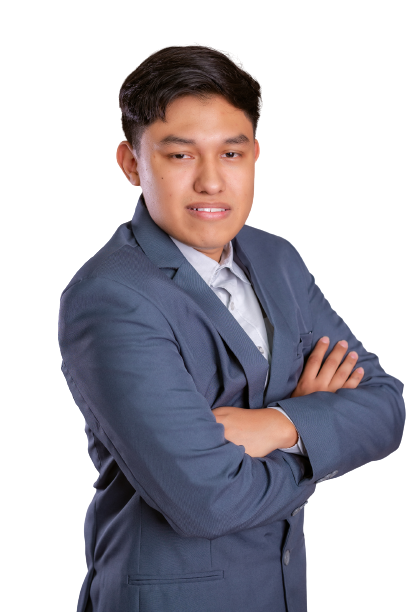
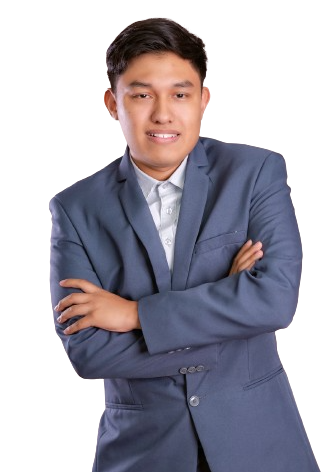
SEO

diff --git a/src/components/Skills.jsx b/src/components/Skills.jsx
@@ -2,61 +2,74 @@ import { Container } from "@mui/material";
 import Typography from "@mui/material/Typography";
 import Image from "react-bootstrap/Image";
 import Row from "react-bootstrap/Row";
-import Col from "react-bootstrap/Col";
-import Button from "react-bootstrap/Button";
-import Avatar from "@mui/material/Avatar";
 import Stack from "@mui/material/Stack";
 import Grid from "@mui/material/Grid";
 import { useTranslation } from "react-i18next";
 import styled from "styled-components";
 
+//IMAGENES DE LAS SKILLS
+import img1 from "../assets/skills/css3.webp";
+import img2 from "../assets/skills/html.webp";
+import img3 from "../assets/skills/javascript.webp";
+import img4 from "../assets/skills/vuejs.webp";
+import img5 from "../assets/skills/react.webp";
+import img6 from "../assets/skills/nodejs.webp";
+import img7 from "../assets/skills/mongodb.webp";
+import img8 from "../assets/skills/mysql.webp";
+import img9 from "../assets/skills/sqlserver.webp";
+import img10 from "../assets/skills/git.webp";
+import img11 from "../assets/skills/java.webp";
+import img12 from "../assets/skills/python.webp";
+
+//------------------------
+
 const skills = [
   {
-    img: "https://upload.wikimedia.org/wikipedia/commons/thumb/6/62/CSS3_logo.svg/800px-CSS3_logo.svg.png",
+    img: img1,
     title: "CSS",
   },
   {
-    img: "https://upload.wikimedia.org/wikipedia/commons/thumb/3/38/HTML5_Badge.svg/800px-HTML5_Badge.svg.png",
+    img: img2,
     title: "HTML",
   },
   {
-    img: "https://upload.wikimedia.org/wikipedia/commons/thumb/6/6a/JavaScript-logo.png/800px-JavaScript-logo.png",
+    img: img3,
     title: "JAVASCRIPT",
   },
   {
-    img: "https://upload.wikimedia.org/wikipedia/commons/thumb/9/95/Vue.js_Logo_2.svg/1184px-Vue.js_Logo_2.svg.png",
+    img: img4,
     title: "VUE JS",
   },
   {
-    img: "https://upload.wikimedia.org/wikipedia/commons/thumb/a/a7/React-icon.svg/2300px-React-icon.svg.png",
+    img: img5,
     title: "REACT",
   },
   {
-    img: "https://static-00.iconduck.com/assets.00/node-js-icon-1817x2048-g8tzf91e.png",
+    img: img6,
     title: "NODE JS",
   },
   {
-    img: "https://cdn.icon-icons.com/icons2/2415/PNG/512/mongodb_original_logo_icon_146424.png",
+    img: img7,
     title: "MongoDB",
   },
   {
-    img: "https://1000marcas.net/wp-content/uploads/2020/11/MySQL-logo.png",
+    img: img8,
     title: "MySQL",
   },
   {
-    img: "https://cyclr.com/wp-content/uploads/2022/03/ext-550.png",
+    img: img9,
     title: "SQL Server",
   },
   {
-    img: "https://upload.wikimedia.org/wikipedia/commons/thumb/3/3f/Git_icon.svg/2048px-Git_icon.svg.png",
+    img: img10,
     title: "Git",
   },
   {
-    img: "https://1000marcas.net/wp-content/uploads/2020/11/Java-logo.png",
+    img: img11,
     title: "Java",
   },
   {
-    img: "https://upload.wikimedia.org/wikipedia/commons/thumb/c/c3/Python-logo-notext.svg/1869px-Python-logo-notext.svg.png",
+    img: img12,
     title: "Python",
   },
 ];
@@ -106,6 +119,7 @@ export default function About() {
                           height: "75px",
                         }}
                         src={item.img}
+                        alt={item.title}
                       />
                     </Stack>
                   </Grid>

diff --git a/src/datos/portafolio.js b/src/datos/portafolio.js
@@ -62,7 +62,7 @@ export const proyectos = [
     img: p2,
     title: "Kittenbook",
     description:
-      "Actualizacion del portal electronico de la universidad, implementando nuevas tecnologias.",
+      "Software enfocado a la organización de los estudiantes, se puede añadir todo los relacionado a algúna materia como por ejemplo, creditos complementarios, notas, tareas, calificación.",
     moreImg: [p2_1, p2_2, p2_3, p2_4, p2_5, p2_6, p2_7, p2_8, p2_9, p2_10, p2_11, p2_12],
   },
   {
@@ -70,7 +70,7 @@ export const proyectos = [
     img: p4,
     title: "Sistema",
     description:
-      "Creación de aplicacion web usando MongoDB, NodeJS, Vue y Express como tecnologías. Cuenta con tres roles diferentes",
+      "Sistema de compra y venta de articulos, en el cúal se tienen tres roles: administrador, vendedor y comprador. Cada rol tiene ciertas funcionalidades disponibles a excepcion del administrador.",
     moreImg: [p4_1, p4_2, p4_3, p4_4, p4_5, p4_6, p4_7, p4_8],
   }
 ];

diff --git a/index.html b/index.html
@@ -2,9 +2,22 @@
 <html lang="en">
   <head>
     <meta charset="UTF-8" />
-    <link rel="icon" type="image/svg+xml" href="/vite.svg" />
+    <link rel="icon" type="image/svg+xml" href="/laptop.svg" />
     <meta name="viewport" content="width=device-width, initial-scale=1.0" />
-    <title>Vite + React</title>
+    <meta
+      name="description"
+      content="Portafolio creado con el finalidad de compartir la experiencia que he obtenido durante mi vida estudiantil."
+    />
+    <meta
+      name="keywords"
+      content="jrv, jesus romero, Jesús Romero Vázquez, Jesús Romero, perfil, portafolio web, ingenierio, ingenierio en sistemas, desarrollador en torreón, torreón, comarca, lagunera, coahuila, mexico"
+    />
+    <meta name="author" content="2023 - JRV" />
+    <meta
+      property="og:site_name"
+      content="JRV - Portafolio Personal"
+    />
+    <title>Portafolio Personal</title>
   </head>
   <body>
     <div id="root"></div>

diff --git a/src/components/About.jsx b/src/components/About.jsx
@@ -7,6 +7,7 @@ import Button from "react-bootstrap/Button";
 import { Box } from "@mui/material";
 import { useTranslation } from "react-i18next";
 import styled from "styled-components";
+import imgAbout from "../assets/img.png";
 
 const BoxStyle = styled(Box)`
   background-color: ${({ theme }) => theme.about.bgc};
@@ -47,8 +48,11 @@ export default function About() {
                     style={{
                       textAlign: "center",
                       padding: "2%",
+                      width: "100%",
+                      height: "auto"
                     }}
                     src="https://us.123rf.com/450wm/dotshock/dotshock1602/dotshock160200726/52352665-negocio-de-inicio-desarrollador-de-software-trabajando-en-equipo-en-la-oficina-moderna.jpg?ver=6"
+                    alt="JRV"
                   />
                 </Box>
               </Col>

diff --git a/src/components/Contacto.jsx b/src/components/Contacto.jsx
@@ -28,14 +28,12 @@ export default function Contacto() {
       <TextField
         fullWidth
         label={t("contact.email")}
-        id="fullWidth"
         sx={{ backgroundColor: "#fff" }}
       />
       <br />
       <br />
       <TextField
         fullWidth
-        id="fullWidth"
         label={t("contact.message")}
         multiline
         rows={10}

diff --git a/src/components/Banner.jsx b/src/components/Banner.jsx
@@ -88,7 +88,9 @@ export function ImgFija() {
               <Image
                 style={{ textAlign: "center" }}
                 width={"250px"}
+                height={"auto"}
                 src={perfilResponsive}
+                alt="JRV"
               />
             </Box>
             <Col

diff --git a/src/components/Cards.jsx b/src/components/Cards.jsx
@@ -175,6 +175,7 @@ export function Venta({ open, handleClose, item }) {
                     height: "100%",
                   }}
                   src={x}
+                  alt={x.title}
                 />
               </Carousel.Item>
             ))}
